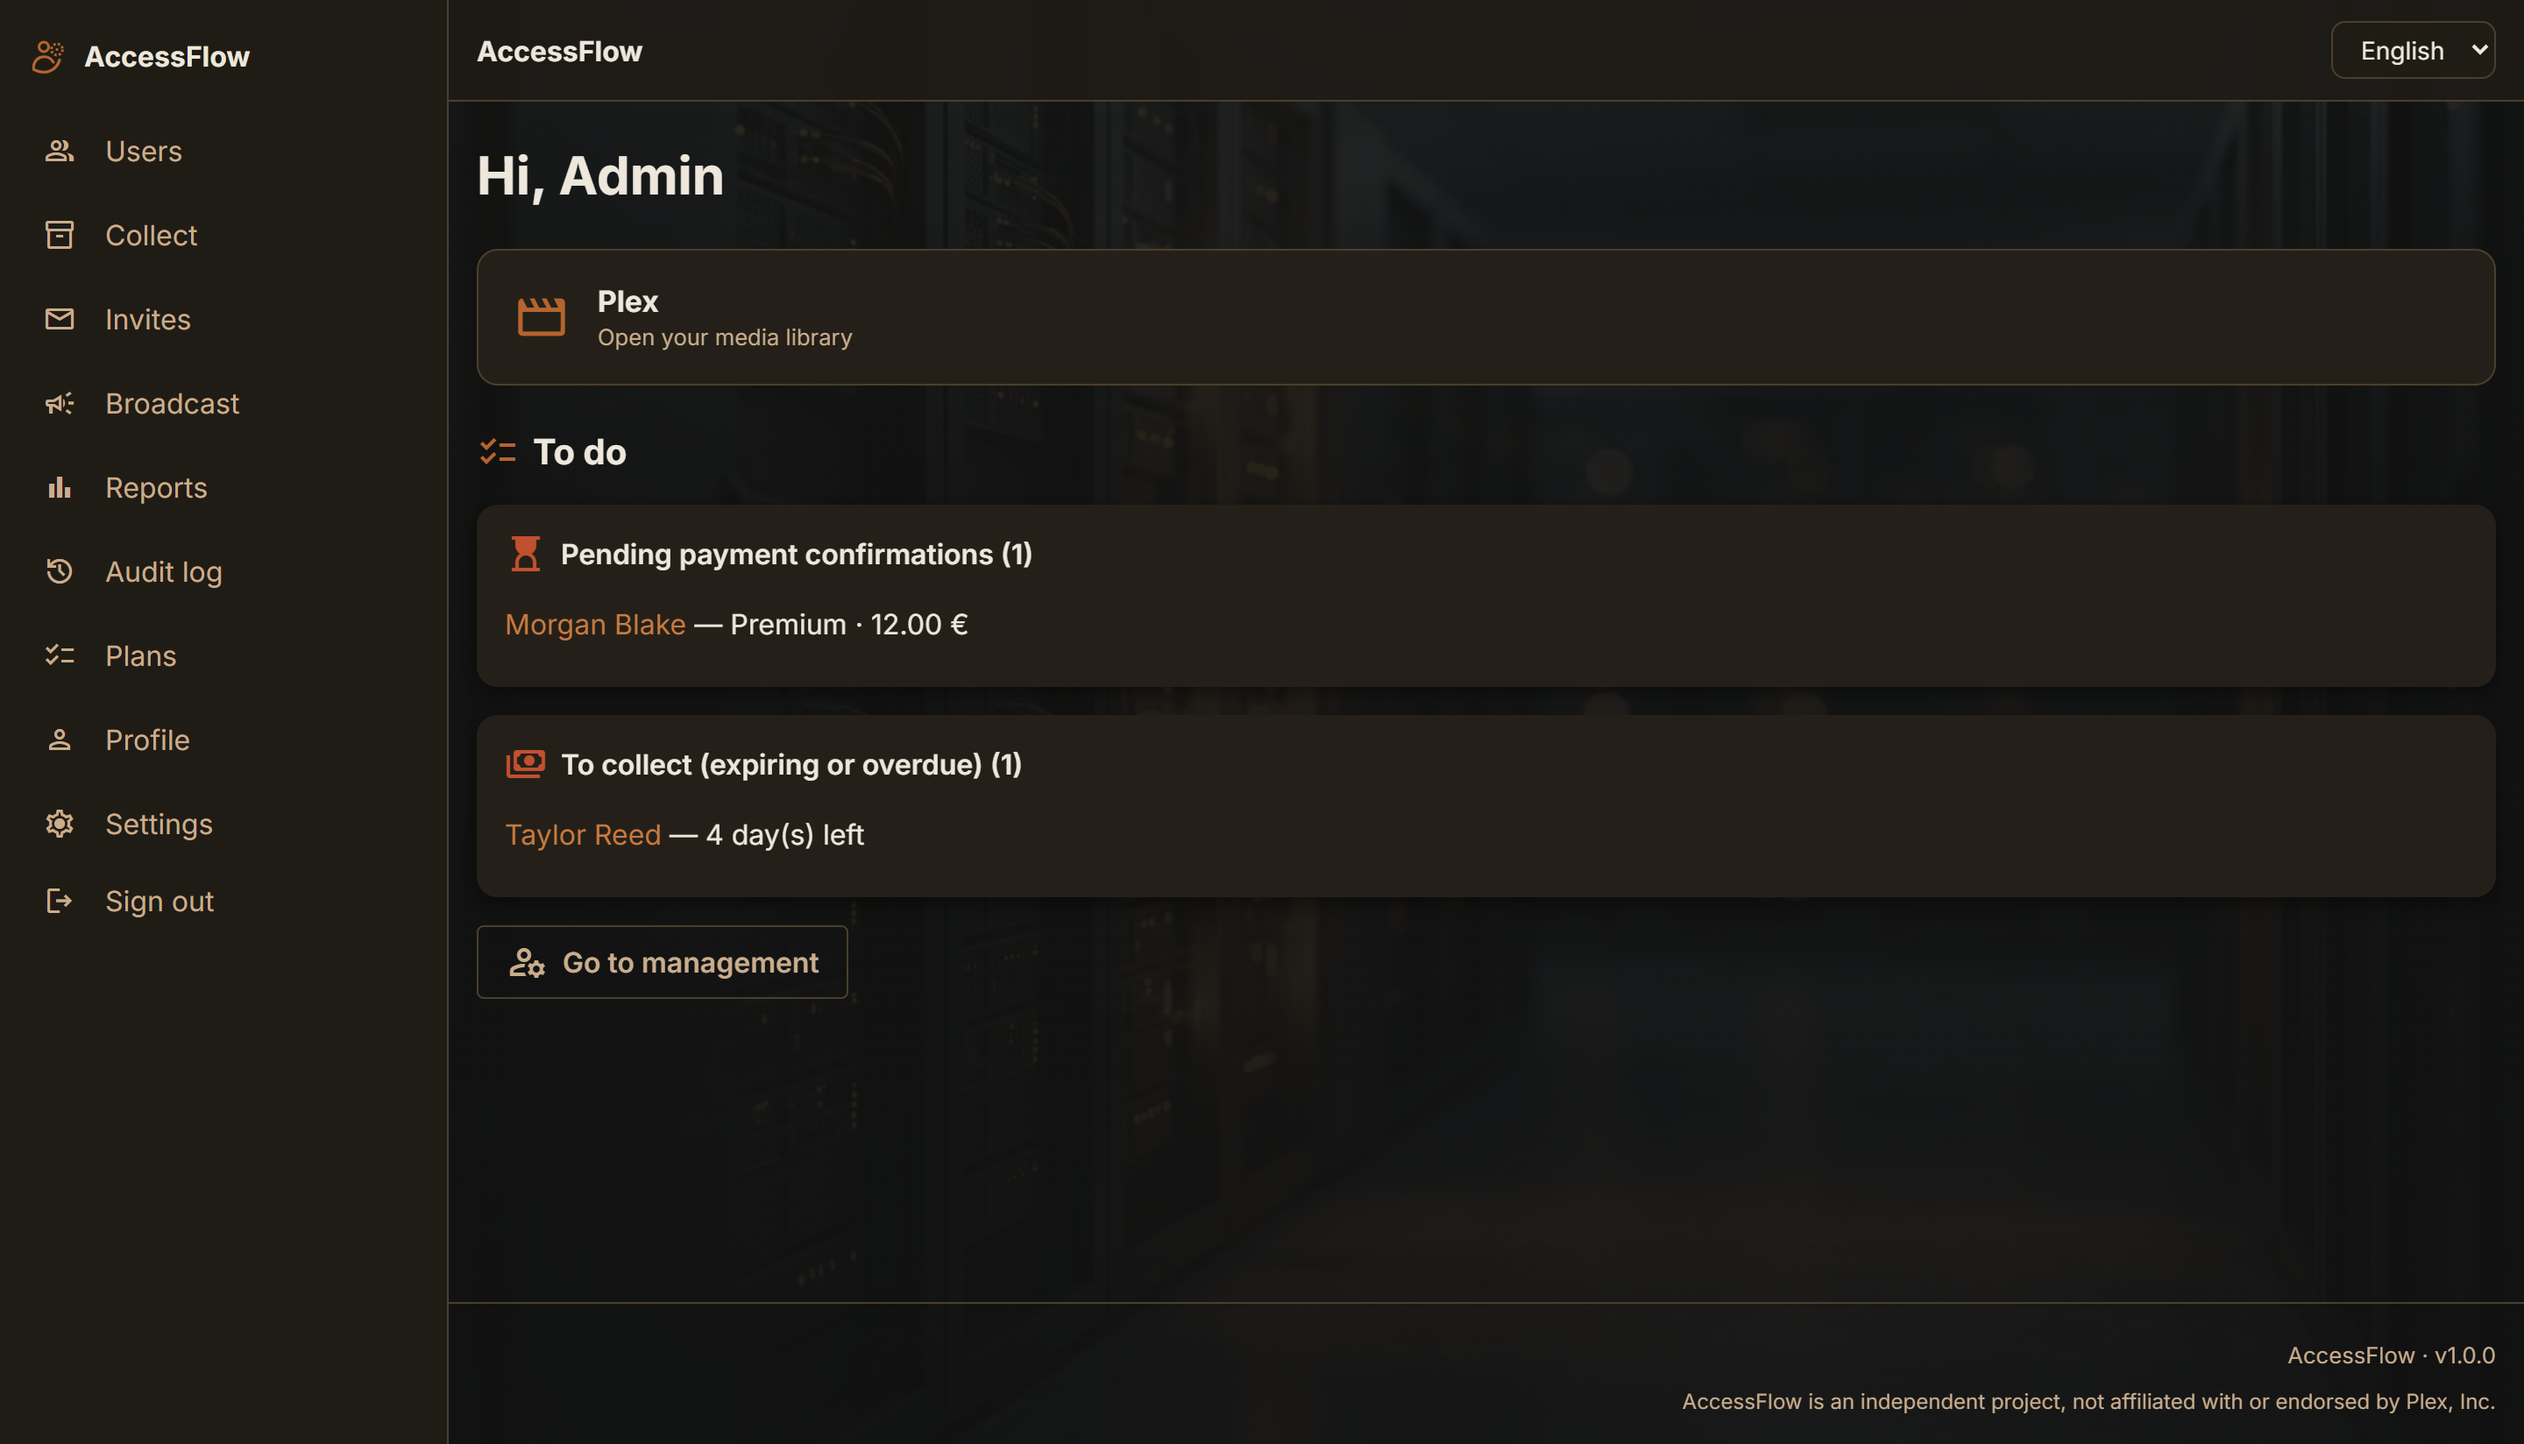
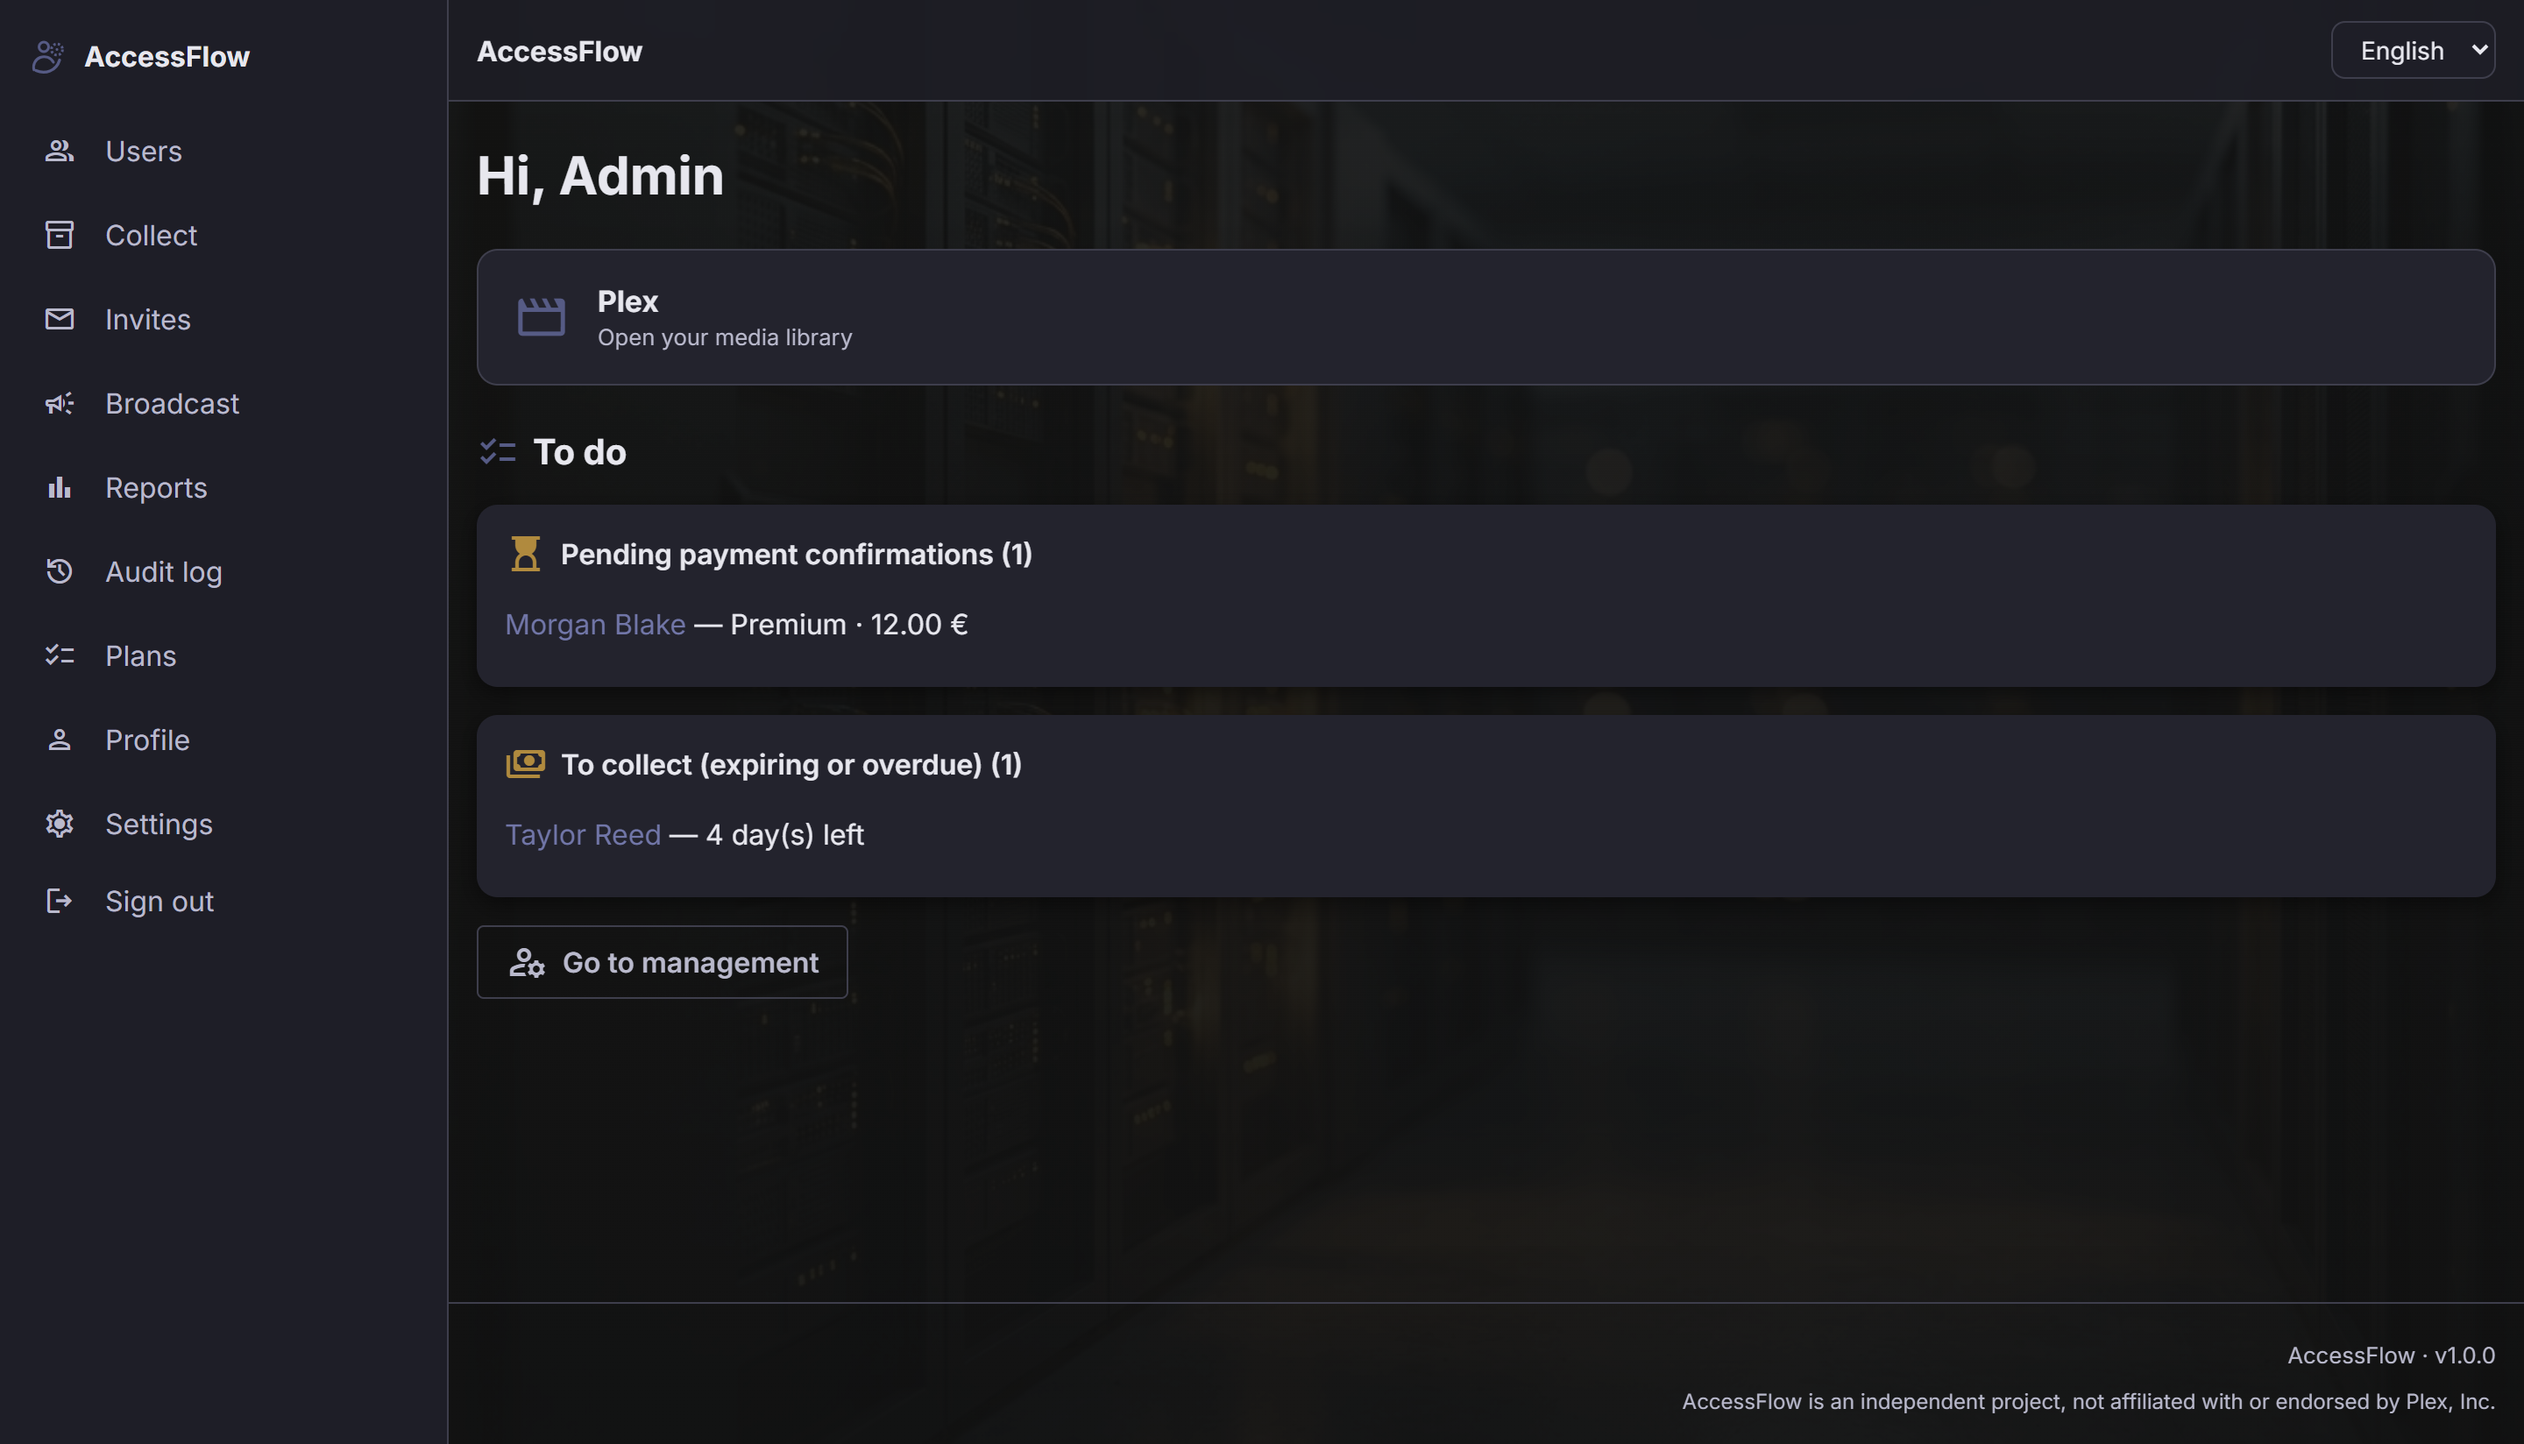
docs: fix theme screenshot swap, add themes to features
Rame is the default theme, Inchiostro the dark accent — Index.png and
Index_ink_theme.png had it backwards. Also list the 3 color themes
under Features.

diff --git a/README.md b/README.md
@@ -19,9 +19,9 @@ FastAPI + Jinja2/HTMX + SQLite, shipped as a single Docker container that sits b
 |---|---|
 | ![Collect](docs/screenshots/Requests.png) | ![Reports](docs/screenshots/Reports.png) |
 
-Dark theme by default; an "ink" accent theme is also available:
+Rame (copper) theme by default; Inchiostro and Muschio variants also available from Settings:
 
-![Dashboard — ink theme](docs/screenshots/Index_ink_theme.png)
+![Dashboard — Inchiostro theme](docs/screenshots/Index_ink_theme.png)
 
 ## Contents
 
@@ -44,6 +44,7 @@ Dark theme by default; an "ink" accent theme is also available:
 - **Automatic reminders** — expiration notices via email and Telegram, deduplicated, configurable schedule.
 - **Financial reports** — revenue collected, pending, and projected, straight from recorded payments.
 - **Telegram bot** — users link their account for reminders; admins can broadcast.
+- **3 color themes** — Rame, Inchiostro, Muschio — switchable per-user from Settings.
 - **Audit log, soft-delete, nightly backups** — out of the box.
 - **i18n** — English source strings, translatable via `.po` catalogs.
 
